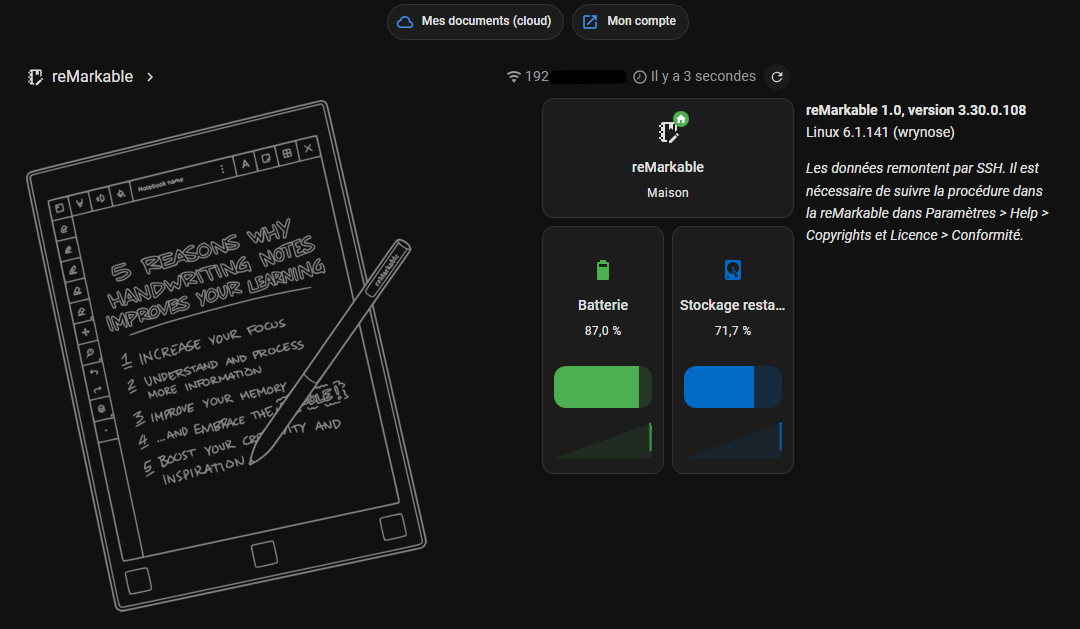
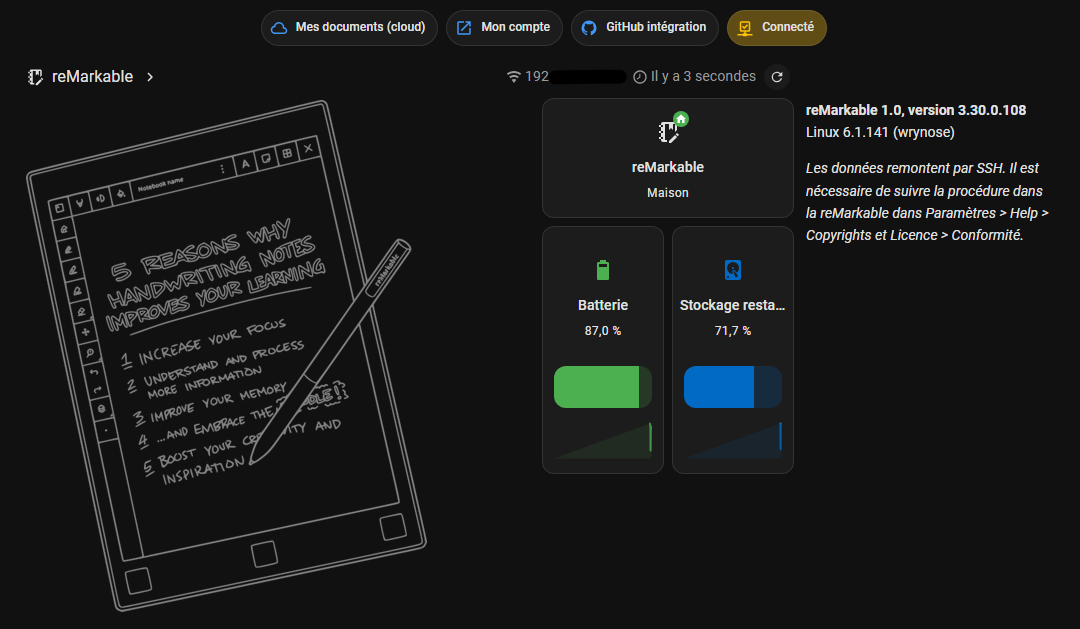
Update docs

Changed region(s): [[0.2444, 0.0, 0.7639, 0.0906]]

diff --git a/README.md b/README.md
@@ -11,7 +11,7 @@
 
 # reMarkable status, Home Assistant unofficial integration
 
-![](logo.png)
+![](docs/header.png)
 
 Home Assistant integration to track your reMarkable tablet status.  
 Developped by Aurélien Tomassini (ooree23).  
